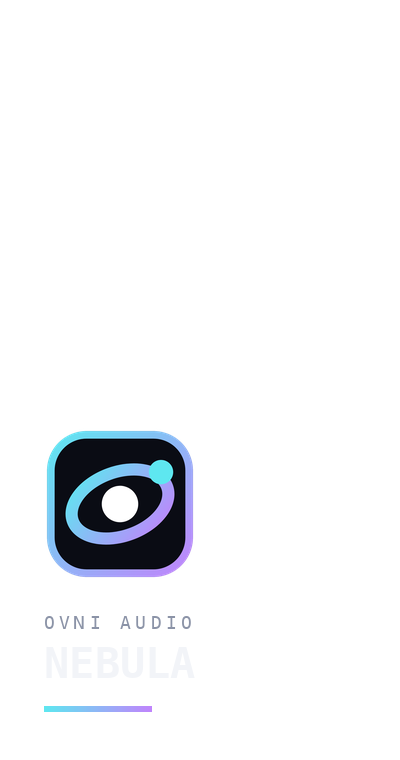
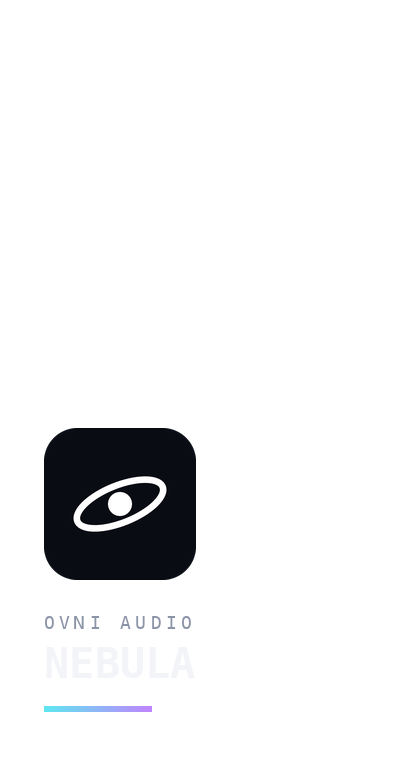
packaging: installer artwork on the current OVNI mark (TELESCOPE gets its own panel) and English-first SOURCE.txt
The telescope-v0.1.0 assets were refreshed with this packaging on 2026-09-15; the plug-in
binaries and the tag are unchanged.

Changed region(s): [[0.09, 0.5447, 0.51, 0.7868]]

diff --git a/packaging/make-installer-art.py b/packaging/make-installer-art.py
@@ -13,6 +13,10 @@ pasos (Introducción · Licencia · Destino · …). Por eso:
 Emite un par light/dark por módulo. La variante dark NO es opcional: el instalador respeta la
 apariencia del sistema y un texto oscuro sobre el panel oscuro desaparece.
 
+El ícono sale de `sello/brand/ovni-icon-1024.png`: desde el 2026-09-15 es el kit de marca v2
+(anillo blanco plano sobre grafito, sin satélite, sin degradado ni glow). Al cambiar la marca hay
+que RE-CORRER este script — el arte queda congelado en PNG y no se entera solo.
+
 Uso:
     make-installer-art.py [--outdir packaging/installer-resources]
 """
@@ -54,7 +58,8 @@ MENLO = "/System/Library/Fonts/Menlo.ttc"
 MENLO_REGULAR, MENLO_BOLD = 0, 1
 
 # Todo el catálogo, para que agregar un plugin no deje su instalador sin arte.
-MODULES = ["ORBIT", "PULSAR", "NEBULA", "DUST", "HALO", "HORIZON", "AURORA", "SUPERNOVA"]
+MODULES = ["ORBIT", "PULSAR", "NEBULA", "DUST", "HALO", "HORIZON", "AURORA", "SUPERNOVA",
+           "TELESCOPE"]
 EYEBROW = "OVNI AUDIO"
 
 
